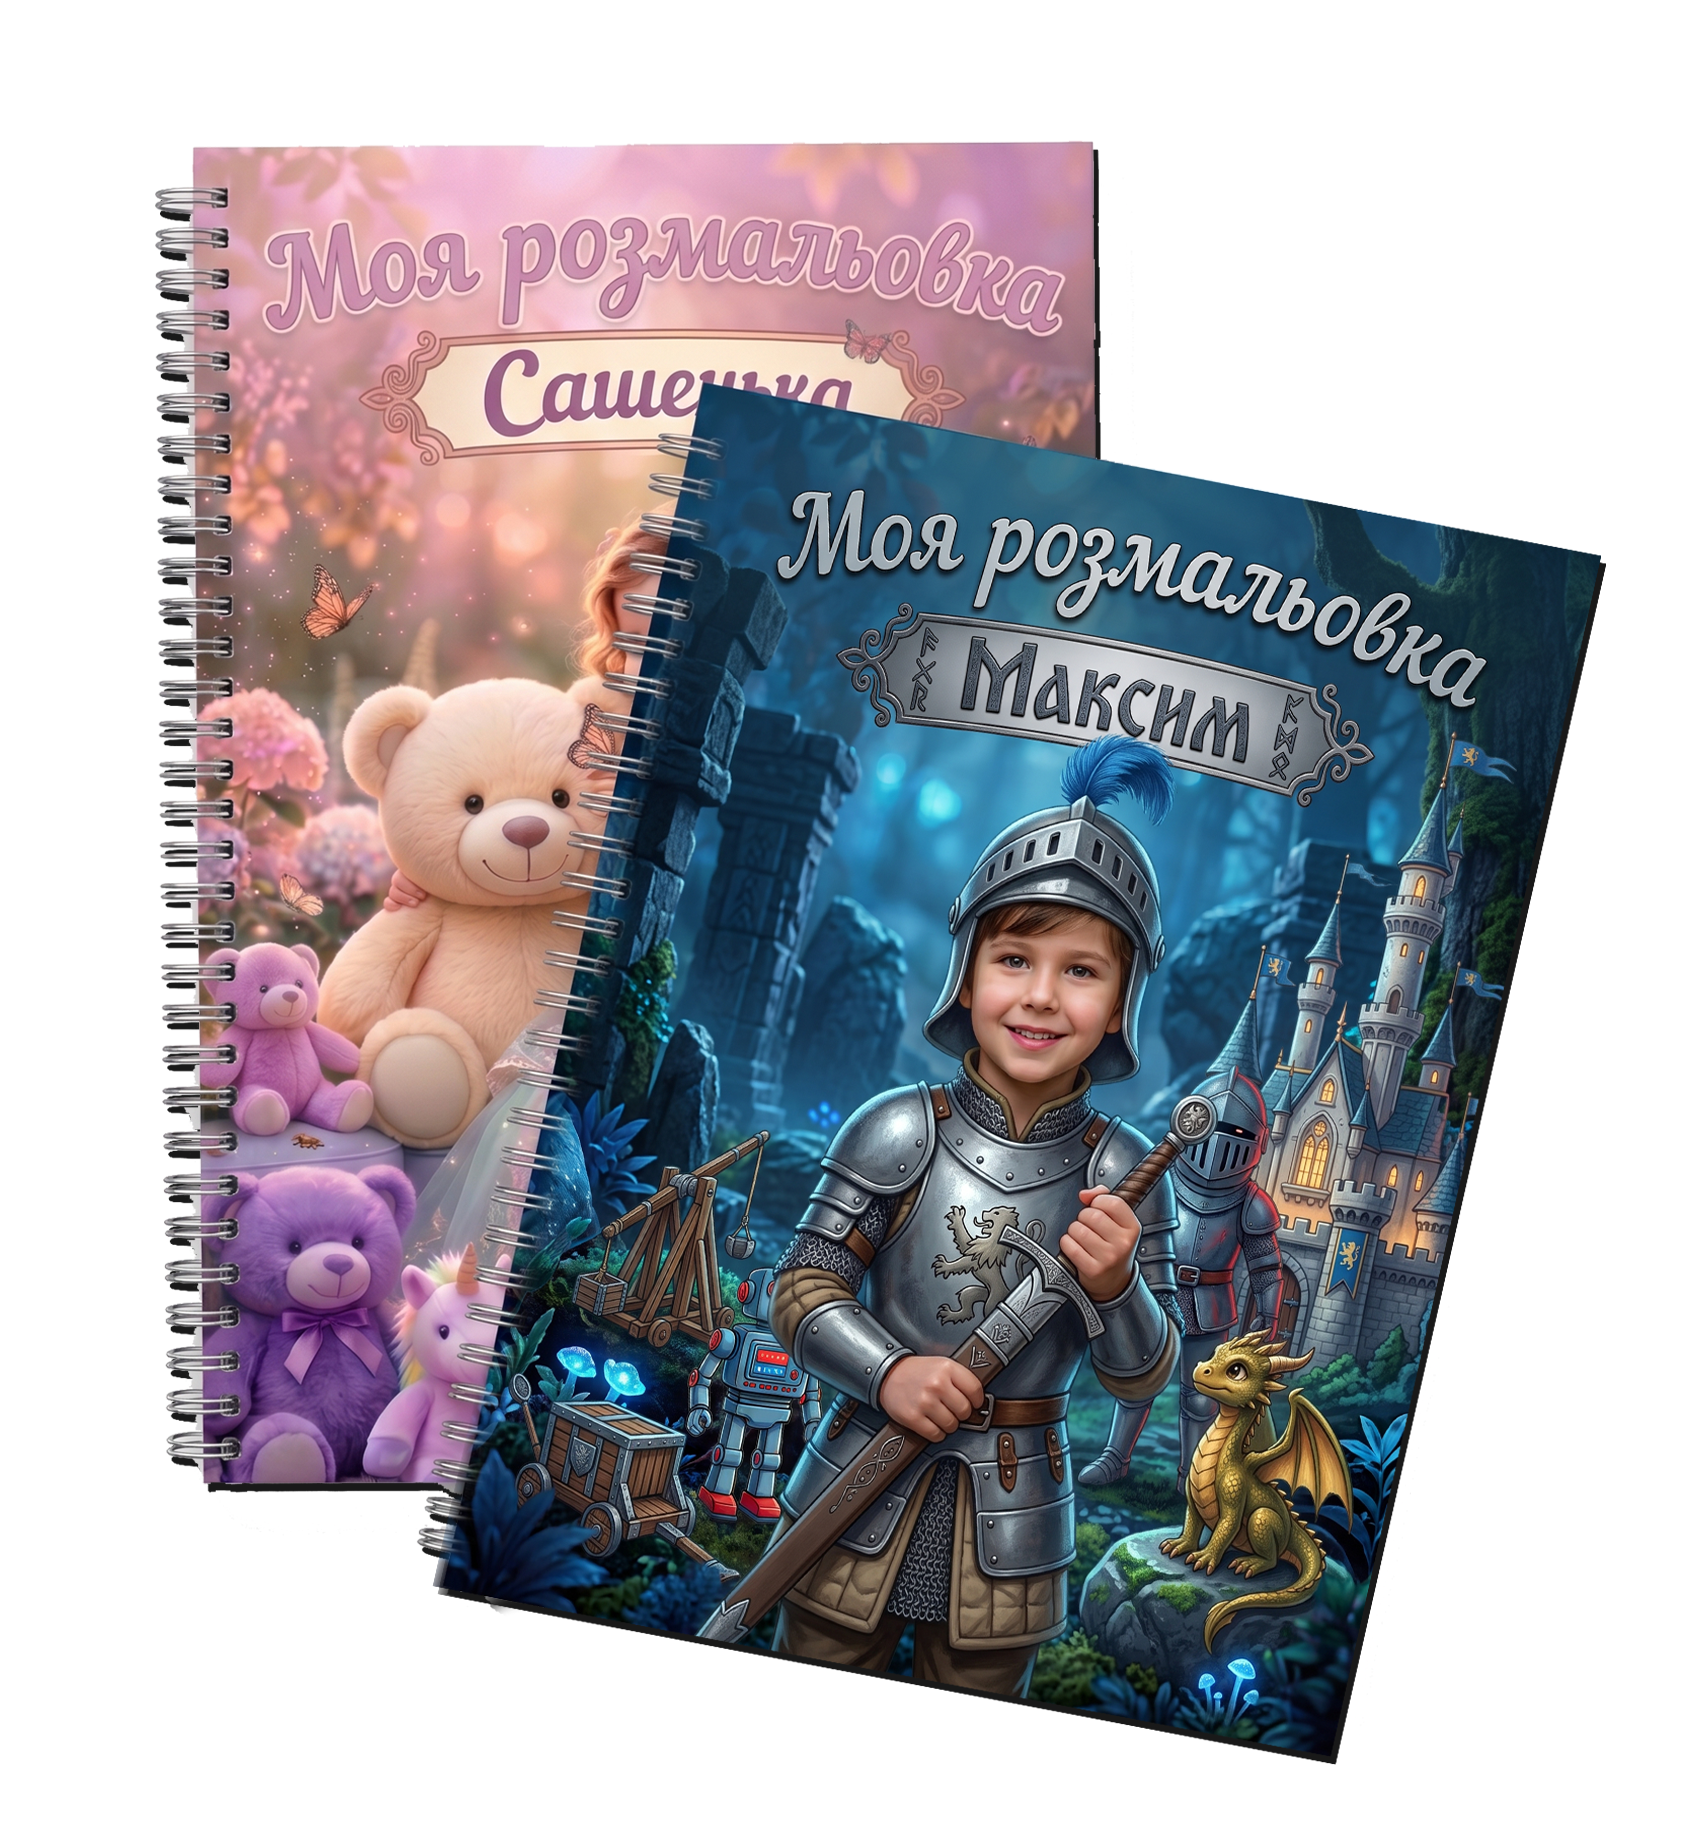
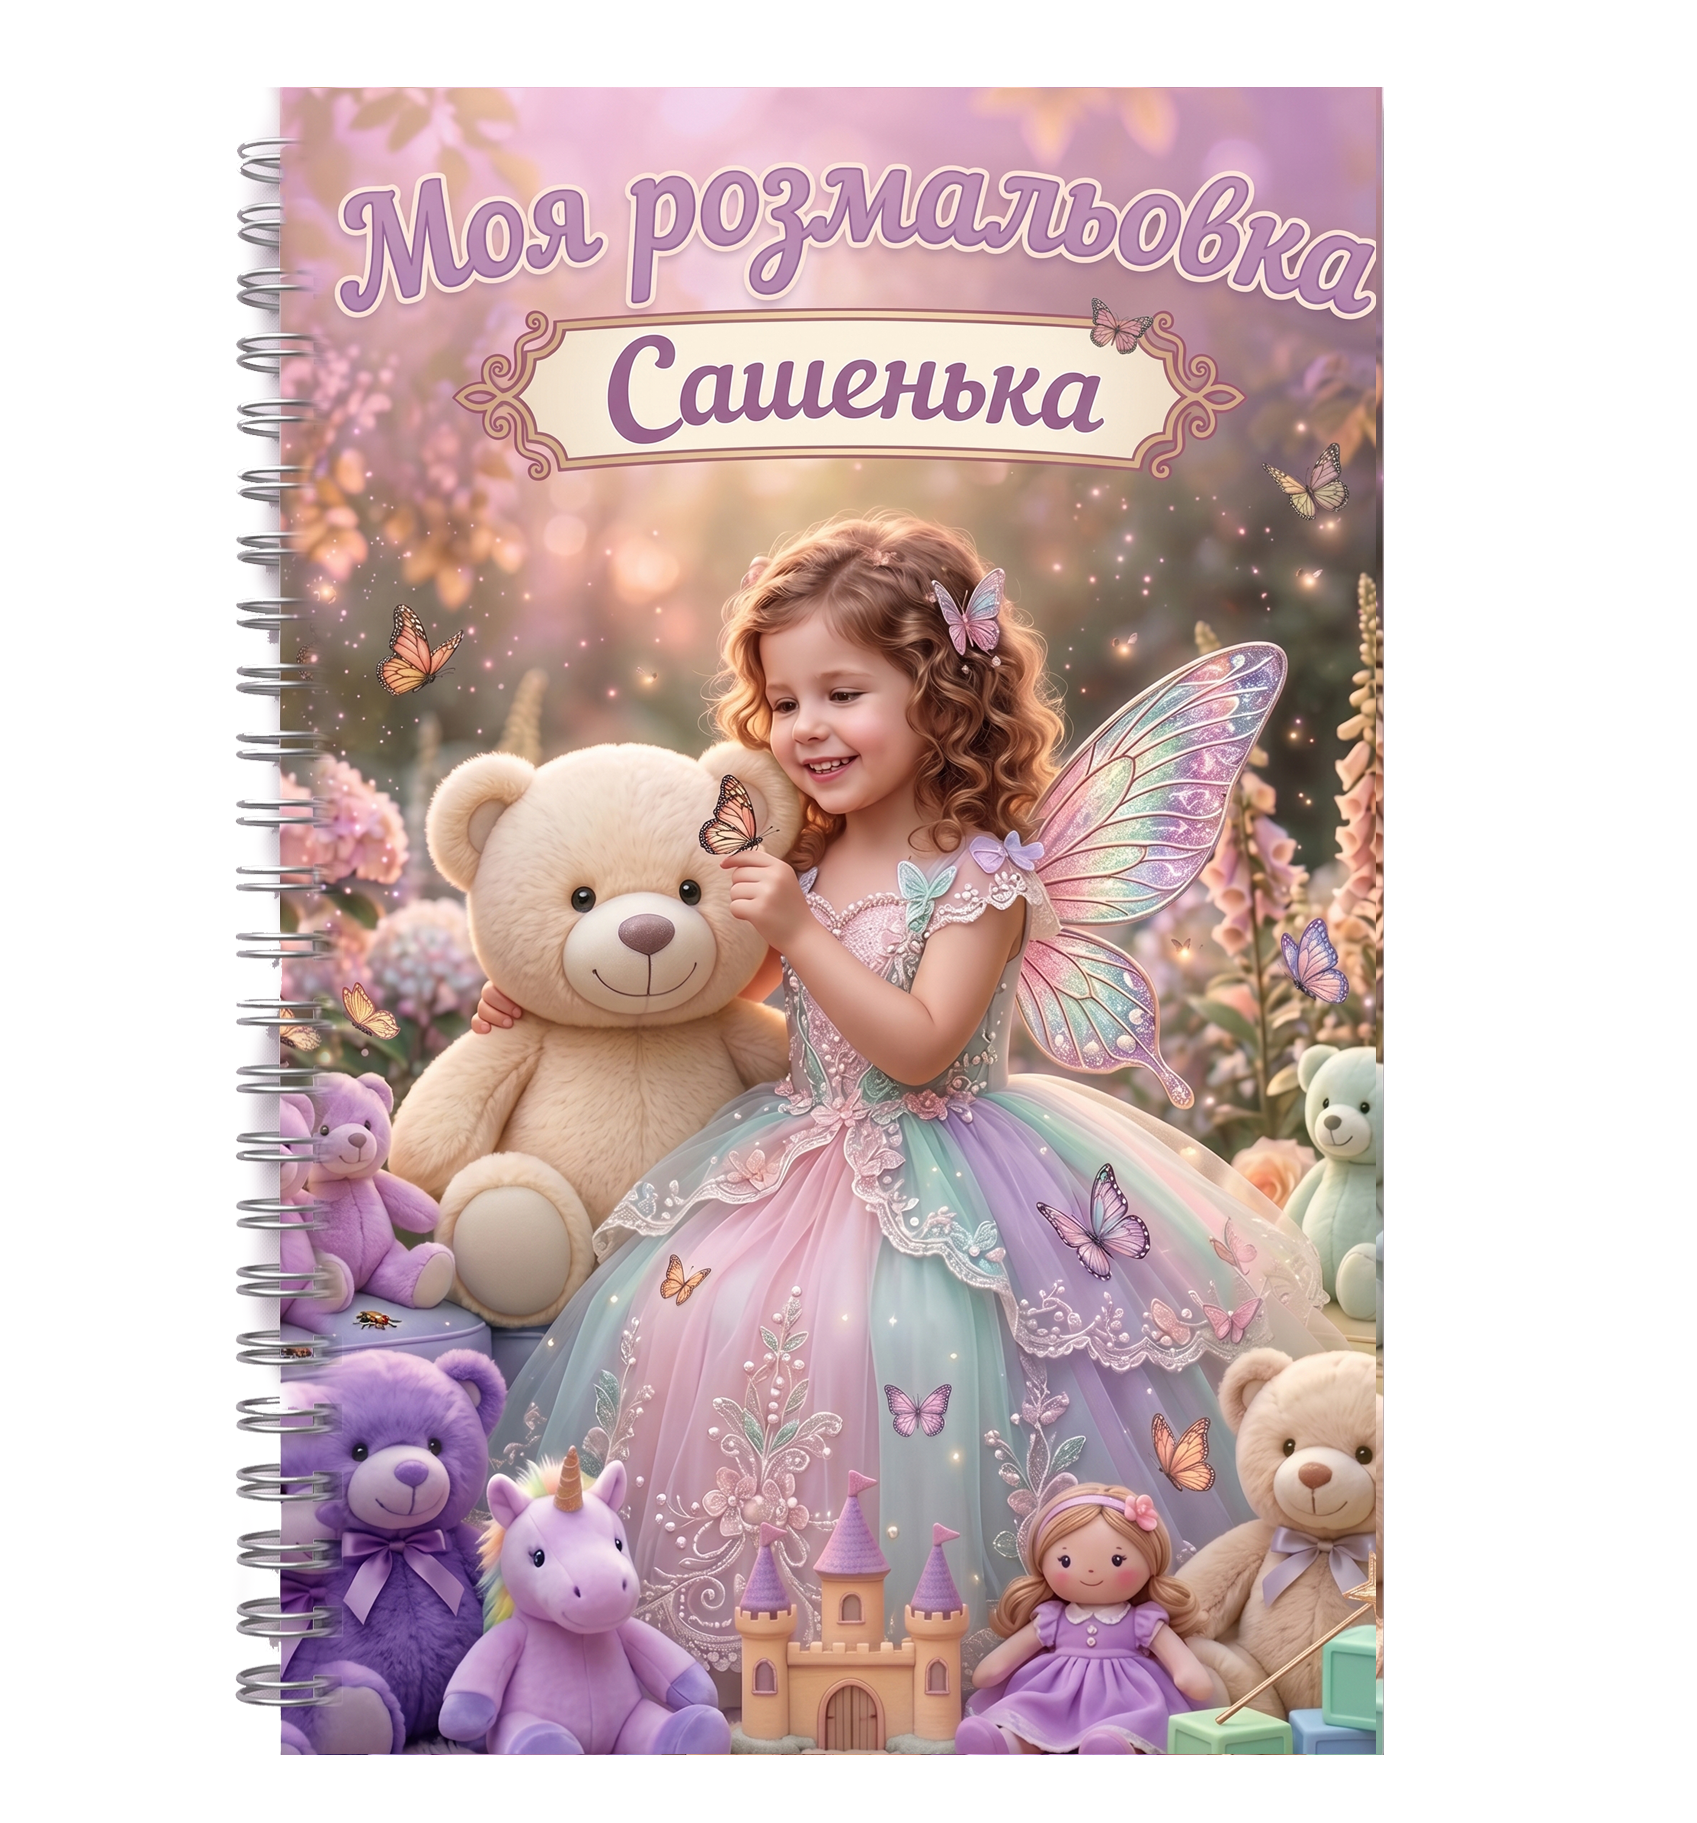
Оновлення коду сайту

diff --git a/src/App.jsx b/src/App.jsx
@@ -30,7 +30,7 @@ const stagger = {
   visible: { opacity: 1, transition: { staggerChildren: 0.1 } }
 };
 
-const scrollConfig = { once: false, amount: 0.1 }; 
+const scrollConfig = { once: true, amount: 0.1 }; 
 
 // Оновлена галерея на 8 фото у форматі .webp
 const galleryData = [
@@ -43,6 +43,66 @@ const galleryData = [
   { text: "Фентезі", orig: "/7.webp", draw: "/77.webp" },
   { text: "Транспорт", orig: "/8.webp", draw: "/88.webp" }
 ];
+
+// === АВТОМАТИЧНА 3D КАРУСЕЛЬ ГОЛОВНОГО ЕКРАНУ ===
+const HeroCarousel = () => {
+  const images = ['/image.png', '/1image.png', '/2image.png'];
+  const [activeIndex, setActiveIndex] = useState(0);
+
+  useEffect(() => {
+    const interval = setInterval(() => {
+      setActiveIndex((current) => (current + 1) % images.length);
+    }, 3500);
+    return () => clearInterval(interval);
+  }, [images.length]);
+
+  return (
+    <div className="relative w-full max-w-[800px] h-[450px] md:h-[650px] mx-auto flex items-center justify-center" style={{ perspective: '1200px' }}>
+      
+      <motion.div 
+        animate={{ opacity: [0.15, 0.35, 0.15], scale: [0.95, 1.05, 0.95] }}
+        transition={{ repeat: Infinity, duration: 5, ease: "easeInOut" }}
+        className="absolute inset-0 bg-gradient-to-tr from-[#FF1493] to-[#FF5F15] rounded-full blur-[70px] z-0 pointer-events-none will-change-transform"
+      />
+
+      {images.map((img, index) => {
+        let offset = index - activeIndex;
+        if (offset === -2) offset = 1;
+        if (offset === 2) offset = -1;
+
+        const isCenter = offset === 0;
+        const xOffset = window.innerWidth < 768 ? 85 : 180;
+
+        return (
+          <motion.div
+            key={img}
+            initial={false}
+            animate={{
+              x: offset * xOffset,
+              scale: isCenter ? 1 : 0.85,
+              zIndex: isCenter ? 30 : 10,
+              opacity: isCenter ? 1 : 0.6,
+              rotateY: offset * -20,
+              y: isCenter ? 0 : 25 
+            }}
+            transition={{ duration: 0.8, ease: "easeInOut" }}
+            className="absolute flex flex-col items-center justify-center pointer-events-none"
+          >
+            <img
+              src={img}
+              alt="Журнал"
+              className="w-[280px] md:w-[450px] h-auto object-contain drop-shadow-[0_10px_20px_rgba(0,0,0,0.25)] relative z-10"
+            />
+            
+            <div 
+              className="absolute -bottom-6 md:-bottom-10 w-[220px] md:w-[360px] h-[15px] md:h-[20px] bg-slate-900/50 rounded-[100%] blur-[12px] z-0"
+            />
+          </motion.div>
+        );
+      })}
+    </div>
+  );
+};
 
 // --- ПОВНОЕКРАННИЙ СЛАЙДЕР ДО/ПІСЛЯ ---
 const CompareModal = ({ isOpen, onClose, data }) => {
@@ -233,9 +293,9 @@ export default function App() {
   const yHero = useTransform(scrollYProgress, [0, 1], [0, 150]);
 
   const prices = {
-    9: { old: 500, new: 370, label: 'ЕКОНОМ' },
-    14: { old: 750, new: 550, label: 'ОПТИМАЛЬНИЙ' },
-    23: { old: 1000, new: 600, label: 'МАКСИМАЛЬНИЙ' }
+    9: { old: 500, new: 400, label: 'Lite' },
+    14: { old: 620, new: 550, label: 'PRO' },
+    23: { old: 1010, new: 700, label: 'Maximum' }
   };
 
   const scrollToOrder = () => {
@@ -243,10 +303,13 @@ export default function App() {
   };
 
   return (
-    <div className="min-h-screen flex flex-col text-slate-800 font-sans overflow-x-hidden selection:bg-brand-pink selection:text-white relative">
+    <div 
+      className="min-h-screen flex flex-col text-slate-800 font-sans overflow-x-hidden selection:bg-brand-pink selection:text-white relative"
+      onContextMenu={(e) => e.preventDefault()}
+    >
       
-      <motion.div style={{ y: yBg1 }} className="absolute top-[10%] left-[-10%] w-[50vw] h-[50vw] max-w-[500px] max-h-[500px] bg-gradient-to-br from-[#FF1493]/10 to-transparent rounded-full blur-[80px] -z-10 pointer-events-none" />
-      <motion.div style={{ y: yBg2 }} className="absolute top-[40%] right-[-10%] w-[40vw] h-[40vw] max-w-[400px] max-h-[400px] bg-gradient-to-bl from-[#FF5F15]/10 to-transparent rounded-full blur-[80px] -z-10 pointer-events-none" />
+      <motion.div style={{ y: yBg1, willChange: "transform" }} className="absolute top-[10%] left-[-10%] w-[50vw] h-[50vw] max-w-[500px] max-h-[500px] bg-gradient-to-br from-[#FF1493]/10 to-transparent rounded-full blur-[80px] -z-10 pointer-events-none" />
+      <motion.div style={{ y: yBg2, willChange: "transform" }} className="absolute top-[40%] right-[-10%] w-[40vw] h-[40vw] max-w-[400px] max-h-[400px] bg-gradient-to-bl from-[#FF5F15]/10 to-transparent rounded-full blur-[80px] -z-10 pointer-events-none" />
 
       <CompareModal isOpen={!!selectedImageModal} onClose={() => setSelectedImageModal(null)} data={selectedImageModal} />
 
@@ -278,8 +341,8 @@ export default function App() {
         
         <motion.div 
           initial="hidden" whileInView="visible" viewport={scrollConfig} variants={fadeUp}
-          style={{ y: yHero }}
-          className="text-center max-w-4xl mx-auto mb-16"
+          style={{ y: yHero, willChange: "transform" }}
+          className="text-center max-w-4xl mx-auto mb-6 md:mb-16"
         >
           <motion.div 
             whileHover={{ rotate: [0, -3, 3, -3, 0] }}
@@ -299,37 +362,18 @@ export default function App() {
           </p>
         </motion.div>
 
-        <div className="grid lg:grid-cols-2 gap-12 lg:gap-20 items-center max-w-6xl mx-auto">
+        <div className="grid lg:grid-cols-2 gap-12 lg:gap-32 items-center max-w-6xl mx-auto">
           
           <motion.div 
             initial="hidden" whileInView="visible" viewport={scrollConfig} variants={fadeRight}
             className="relative w-full max-w-[550px] mx-auto"
           >
-            <motion.div 
-              animate={{ y: [0, -12, 0], scale: [1, 1.01, 1] }} 
-              transition={{ repeat: Infinity, duration: 6, ease: "easeInOut" }}
-              className="relative"
-            >
-              <motion.div 
-                animate={{ opacity: [0.15, 0.35, 0.15], scale: [0.95, 1.05, 0.95] }}
-                transition={{ repeat: Infinity, duration: 5, ease: "easeInOut" }}
-                className="absolute inset-0 bg-gradient-to-tr from-[#FF1493] to-[#FF5F15] rounded-3xl blur-[50px] z-0"
-              />
-              <img 
-                src="/image.png" 
-                decoding="async"
-                className="w-full h-auto rounded-3xl object-cover relative z-10 drop-shadow-[0_25px_35px_rgba(0,0,0,0.3)]"
-                onError={(e) => {
-                  e.target.style.display = 'none';
-                  e.target.nextSibling.style.display = 'flex';
-                }}
-              />
-            </motion.div>
+            <HeroCarousel />
           </motion.div>
 
           <motion.div 
             initial="hidden" whileInView="visible" viewport={scrollConfig} variants={fadeLeft}
-            className="glass-card rounded-[2.5rem] p-6 md:p-10 w-full relative overflow-hidden shadow-2xl bg-white/80 border-white/60 mx-auto max-w-md lg:max-w-lg"
+            className="glass-card rounded-[2.5rem] p-6 md:p-10 w-full relative overflow-hidden shadow-2xl bg-white/80 border-white/60 mx-auto max-w-lg lg:max-w-xl"
           >
             <div className="text-center mb-8 relative z-10">
               <h2 className="text-3xl font-black mb-2 text-slate-800 tracking-tight">СТВОРИ ЗАРАЗ</h2>
@@ -369,10 +413,10 @@ export default function App() {
             <motion.button 
               whileHover={{ scale: 1.03, rotate: [-1, 1, -1, 0], boxShadow: "0 15px 30px -5px rgba(255, 95, 21, 0.5)" }}
               whileTap={{ scale: 0.95 }}
-              className="w-full bg-gradient-to-r from-[#FF5F15] to-[#FF1493] text-white text-lg md:text-xl font-black py-4 md:py-5 rounded-2xl shadow-2xl flex items-center justify-center gap-2 relative z-10 tracking-wide"
+              className="w-full bg-gradient-to-r from-[#FF5F15] to-[#FF1493] text-white text-base md:text-lg font-black py-4 md:py-5 rounded-2xl shadow-2xl flex items-center justify-center gap-2 relative z-10 tracking-wide whitespace-nowrap px-4"
             >
               ЗАМОВИТИ РОЗМАЛЬОВКУ
-              <ChevronRight size={26} />
+              <ChevronRight size={26} className="shrink-0" />
             </motion.button>
           </motion.div>
         </div>
@@ -396,11 +440,13 @@ export default function App() {
             <motion.div 
               animate={{ scale: [1, 1.03, 1], boxShadow: ["0 5px 15px rgba(255,20,147,0.1)", "0 15px 25px rgba(255,20,147,0.25)", "0 5px 15px rgba(255,20,147,0.1)"] }}
               transition={{ repeat: Infinity, duration: 3, ease: "easeInOut" }}
-              className="bg-white/95 backdrop-blur-md px-6 py-3 rounded-full border-2 border-[#FF1493]/20 flex items-center justify-center gap-2 cursor-default whitespace-nowrap"
+              className="bg-white/95 backdrop-blur-md px-4 py-2 md:px-6 md:py-3 rounded-full border-2 border-[#FF1493]/20 flex items-center justify-center gap-2 cursor-default whitespace-nowrap"
             >
-              <Sparkles className="text-[#FF5F15] shrink-0" size={20}/> 
-              <span className="text-[#FF1493] font-black tracking-widest uppercase text-xs md:text-sm whitespace-nowrap">Натисни на фото, щоб побачити магію</span>
-              <span className="text-lg md:text-xl drop-shadow-md shrink-0">👇</span>
+              <Sparkles className="text-[#FF5F15] shrink-0 w-4 h-4 md:w-5 md:h-5" /> 
+              <span className="text-[#FF1493] font-black tracking-widest uppercase text-[10px] md:text-sm whitespace-nowrap">
+                Натисни на фото, щоб побачити магію
+              </span>
+              <span className="text-sm md:text-xl drop-shadow-md shrink-0">👇</span>
             </motion.div>
           </motion.div>
 

diff --git a/src/index.css b/src/index.css
@@ -11,18 +11,47 @@
   }
 }
 
+/* ЗАХИСТ ВІД КОПІЮВАННЯ ТА ВИДІЛЕННЯ */
 body {
   margin: 0;
   font-family: 'Inter', sans-serif;
-  background: linear-gradient(-45deg, #e0f2fe, #fae8ff, #fef08a, #ffecd2);
-  background-size: 400% 400%;
-  animation: gradientBG 15s ease infinite;
   min-height: 100vh;
   overflow-x: hidden;
+  background-color: #e5e7eb; /* Резервний колір */
+  
+  /* Забороняємо виділення тексту всюди */
+  -webkit-user-select: none; /* Safari */
+  -moz-user-select: none; /* Firefox */
+  -ms-user-select: none; /* IE10+/Edge */
+  user-select: none; /* Стандарт */
 }
 
-@keyframes gradientBG {
-  0% { background-position: 0% 50%; }
-  50% { background-position: 100% 50%; }
-  100% { background-position: 0% 50%; }
+/* Забороняємо "тягати" картинки мишкою */
+img {
+  -webkit-user-drag: none;
+  -khtml-user-drag: none;
+  -moz-user-drag: none;
+  -o-user-drag: none;
+  user-drag: none;
+}
+
+/* Виносимо фон в окремий апаратно прискорений шар */
+body::before {
+  content: '';
+  position: fixed;
+  inset: 0;
+  z-index: -1;
+  background: 
+    radial-gradient(circle at center, transparent 20%, rgba(15, 23, 42, 0.18) 120%),
+    linear-gradient(-45deg, #e5e7eb, #ffffff, #d1d5db, #f8fafc, #9ca3af);
+  background-size: 100vw 100vh, 400% 400%; 
+  animation: silverShimmer 14s ease-in-out infinite alternate;
+  pointer-events: none;
+  /* Кажемо браузеру заздалегідь підготувати анімацію */
+  will-change: background-position;
+}
+
+@keyframes silverShimmer {
+  0% { background-position: center, 0% 50%; }
+  100% { background-position: center, 100% 50%; }
 }
